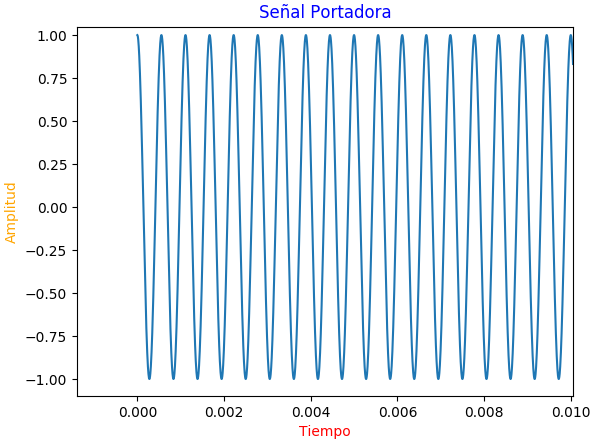
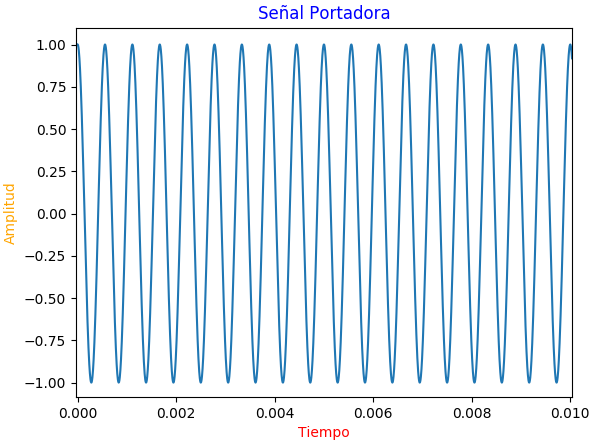
Adding AM images

Changed region(s): [[0.0304, 0.0, 1.0, 1.0], [0.0, 0.4127, 0.0304, 0.5601]]

diff --git a/Avance1.py b/Avance1.py
@@ -144,8 +144,8 @@ def digitalCoding(originalAudio):
 
         if choice == "1":
             print("Realizando modulacion AM\n")
-            modulationAM = modulationAM.amModulationCos(7, 100)
-            #modulationAM = modulationAM.amModulation(originalAudio)
+            #modulationAM = modulationAM.amModulationCos(7, 100)
+            modulationAM = modulationAM.amModulation(originalAudio)
             input("Presiona Enter para continuar")
 
         elif choice == "2":
